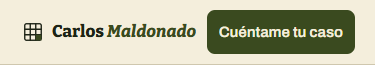
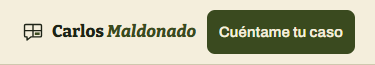
Ícono mensaje-celda y hero sin etiqueta

Changed region(s): [[0.0587, 0.3385, 0.1173, 0.6462]]

diff --git a/src/styles/global.css b/src/styles/global.css
@@ -57,7 +57,7 @@ h1 em, h2 em { font-style: italic; color: var(--oliva); }
 h1 { font-weight: 800; font-size: clamp(2.75rem, 2rem + 5vw, 5rem); line-height: 1.02; letter-spacing: -0.015em; max-width: 16ch; }
 h2 { font-size: clamp(2rem, 1.4rem + 2.6vw, 3.25rem); line-height: 1.08; letter-spacing: -0.01em; max-width: 22ch; overflow-wrap: anywhere; }
 h3 { font: 600 1.25rem/1.3 var(--f-titulo); }
-.rotulo, .etiqueta { font: 500 0.8125rem/1.3 var(--f-mono); text-transform: uppercase; letter-spacing: 0.04em; color: var(--tinta-2); }
+.rotulo { font: 500 0.8125rem/1.3 var(--f-mono); text-transform: uppercase; letter-spacing: 0.04em; color: var(--tinta-2); }
 .num { font: 500 0.8125rem/1.3 var(--f-mono); font-variant-numeric: tabular-nums; letter-spacing: 0.04em; color: var(--oliva); }
 .lead { font-size: clamp(1.1875rem, 1.1rem + 0.4vw, 1.375rem); line-height: 1.5; max-width: 52ch; }
 .nota { font: 400 0.9375rem/1.5 var(--f-titulo); color: var(--tinta-2); }
@@ -68,7 +68,7 @@ h3 { font: 600 1.25rem/1.3 var(--f-titulo); }
 .cabecera .contenedor { display: flex; flex-wrap: nowrap; justify-content: space-between; align-items: center; gap: var(--s1) var(--s2); min-height: 64px; padding-block: var(--s2); }
 .marca-enlace { display: inline-flex; align-items: center; gap: var(--s2); min-height: 44px; padding-inline: 2px; min-width: 0; color: var(--tinta); text-decoration: none; }
 .marca-enlace:hover { color: var(--tinta); }
-.marca-sim { width: 22px; height: 22px; flex: none; fill: none; stroke: var(--tinta); stroke-width: 1.5; stroke-linecap: round; stroke-linejoin: round; }
+.marca-sim { width: 22px; height: 22px; flex: none; }
 .marca { font: 800 1.0625rem/1.2 var(--f-display); white-space: nowrap; }
 @media (min-width: 768px) { .marca { font-size: 1.1875rem; } .cabecera .contenedor { gap: var(--s1) var(--s4); } }
 @media (max-width: 359px) { .marca-sim { display: none; } .marca { font-size: 1rem; } .btn-chico { font-size: 0.875rem; padding: 0 10px; } }
@@ -304,7 +304,6 @@ main > section + section { border-top: 1px solid var(--linea); }
 .btn-icono:hover { background: var(--oliva); color: var(--crema); }
 
 /* ---- direccion B: componentes nuevos ---- */
-.hero .etiqueta { margin-bottom: var(--s4); }
 .hero-cta .enlace-texto { font-weight: 600; }
 @media (min-width: 768px) { .hero-cta .enlace-texto { white-space: nowrap; } }
 .cabecera.cta-oculto .btn, .cabecera.cta-envio .btn { visibility: hidden; }

diff --git a/tests/servicios.spec.ts b/tests/servicios.spec.ts
@@ -86,6 +86,10 @@ test.describe('Estructura y texto de la pagina', () => {
       await expect(a).toHaveAttribute('href', '#inicio');
       await expect(a).toHaveAttribute('aria-label', 'Carlos Maldonado, inicio');
       await expect(a.locator('svg')).toHaveAttribute('aria-hidden', 'true');
+      await expect(a.locator('svg')).toHaveAttribute('viewBox', '0 0 24 24');
+      await expect(a.locator('svg rect')).toHaveCount(1); // la celda llena, separada del trazo del mensaje
+      await expect(page.locator('.hero .etiqueta')).toHaveCount(0);
+      await expect(page.locator('.hero')).not.toContainText('Santiago');
       await expect(a.locator('.marca')).toHaveText('Carlos Maldonado');
       await expect(a.locator('.marca em')).toHaveText('Maldonado');
       if ((await page.viewportSize())!.width >= 768) await expect(a.locator('.marca-desc')).toBeVisible();

diff --git a/DESIGN.md b/DESIGN.md
@@ -134,7 +134,7 @@ La prueba es una sola: el caso real, con su eje horario Antes / Ahora. El resto 
 - **Headline** (Bitter 700, clamp 2-3.25rem, 1.08): h2 de sección.
 - **Title** (Archivo 600, 1.25rem): h3 de pasos y bloques.
 - **Body** (400, 1.0625rem, 1.6) y **Lead** (clamp 1.1875-1.375rem).
-- **Label** (mono 500, 0.8125rem, mayúsculas, 0.04em): etiqueta del hero, números y estados de las etiquetas Antes / Ahora de los ejemplos y chips. Solo para datos; los títulos y botones van en mayúscula normal.
+- **Label** (mono 500, 0.8125rem, mayúsculas, 0.04em): números y estados de las etiquetas Antes / Ahora de los ejemplos y chips. Solo para datos; los títulos y botones van en mayúscula normal.
 
 ### Named Rules
 **The Tabular Rule.** Todo número que se lee como dato usa cifras tabulares.
@@ -146,7 +146,7 @@ La prueba es una sola: el caso real, con su eje horario Antes / Ahora. El resto 
 Una columna centrada, máx. 1200px más margen lateral (20/24/40px). Regla única de separación: **línea de 1px en color `linea` a todo el ancho entre una sección y la siguiente** (`main > section + section`). Fondo crema en todas las secciones; solo el hero conserva su tono (crema 2). Contacto y pie sin bandas propias. Regla general de contenido: cada sección lleva título y como máximo una línea; lo visual explica el resto.
 
 Orden de la página:
-1. **Hero** (crema 2, partido): etiqueta mono, h1, subtítulo, CTA y "Mira cómo funciona" (baja al caso) a la izquierda; ilustración de línea fina a la derecha con grilla de puntos tenue detrás. En 375 la ilustración va en vertical, debajo del CTA.
+1. **Hero** (crema 2, partido, sin etiqueta: "Automatización para pymes" ya está en la cabecera): h1, subtítulo, CTA y "Mira cómo funciona" (baja al caso) a la izquierda; ilustración de línea fina a la derecha con grilla de puntos tenue detrás. En 375 la ilustración va en vertical, debajo del CTA.
 2. **Caso real** (problema y caso fundidos): título "Hoy se anota a mano. Podría anotarse solo.", chip "Cliente real, datos anonimizados" y el eje horario Antes / Ahora dentro de una **tarjeta salvia contenida** (margen lateral, radio 8px). En móvil, dos listas apiladas con la hora a la izquierda. Espacio reservado para un dato real (`.caso-datos`).
    Dentro del mismo bloque, tras un filete, el rótulo "Ejemplo · Así se vería en tu negocio" y dos tarjetas `hoja` (Pedidos, Stock) con filas Antes / Ahora; un solo CTA al final. No hay sección aparte de servicios.
 3. **Cómo trabajo + Qué no hago**: cuatro pasos con número, título y una línea; tres límites.
@@ -172,7 +172,7 @@ Radio 8px en botones, campos y tarjetas; 4px en chips; 0 en tablas. Sin círculo
 - **Sin variante clara: el botón del caso es el primario.
 - **Texto:** oliva subrayado, 44px ("Mira cómo funciona", "Pausar/Reanudar").
 - **Foco:** contorno 3px oliva con 2px de separación en todo.
-- **Cabecera (sticky, línea inferior 1px):** un solo enlace a `#inicio` (`aria-label="Carlos Maldonado, inicio"`) con tres partes: símbolo de mini planilla (SVG en línea 22px, 3×3 celdas, trazo `tinta` 1.75 como la ilustración del hero, una celda abajo a la derecha rellena `oliva`, `aria-hidden`; misma familia que `favicon.svg`), nombre en Bitter 800 (1.0625rem en móvil, 1.1875rem desde 768px) con "Maldonado" en cursiva `oliva` (`translate="no"`) y, desde 768px, descriptor "Automatización para pymes" en Archivo 0.875rem `tinta-2` tras un filete vertical fino. Sin envolver: símbolo + nombre + botón caben en 375. El botón aparece solo cuando ni el CTA del hero ni el formulario están en pantalla, y se oculta tras enviar.
+- **Cabecera (sticky, línea inferior 1px):** un solo enlace a `#inicio` (`aria-label="Carlos Maldonado, inicio"`) con tres partes: ícono propio "mensaje-celda" (SVG en línea 22px, viewBox 24: un mensaje que se vuelve planilla; trazo `tinta` 1.5, línea horizontal y vertical dentro del globo y una celda llena `oliva` separada de las líneas, `aria-hidden`; mismo dibujo en `favicon.svg`, en `crema` sobre `oliva` con trazo 1.75 y sin la línea vertical interior, que se empastaba a 16px; bajo 360px el ícono se oculta para que quepan nombre y botón), nombre en Bitter 800 (1.0625rem en móvil, 1.1875rem desde 768px) con "Maldonado" en cursiva `oliva` (`translate="no"`) y, desde 768px, descriptor "Automatización para pymes" en Archivo 0.875rem `tinta-2` tras un filete vertical fino. Sin envolver: símbolo + nombre + botón caben en 375. El botón aparece solo cuando ni el CTA del hero ni el formulario están en pantalla, y se oculta tras enviar.
 - **Volver arriba:** botón flotante único (el pie ya no lo repite); aparece al subir, no mientras se baja leyendo.
 
 ### Íconos y cajas pastel

diff --git a/docs/revisiones/2026-10-20-icono-y-hero.md b/docs/revisiones/2026-10-20-icono-y-hero.md
@@ -1,0 +1,66 @@
+# Ícono propio y etiqueta del hero — 2026-10-20
+
+Decisiones de Carlos:
+1. Reemplazar la mini planilla 3×3 de la cabecera por el ícono **B1 "Mensaje-celda"** (un mensaje que se vuelve planilla). Opciones evaluadas en `design/fase5/icono-opciones.png`.
+2. Quitar la etiqueta del hero "Automatización para pymes · Santiago": ya está en la cabecera y se leía dos veces seguidas.
+
+No tocar nada más.
+
+## Instrucciones
+
+### 1. Ícono en la cabecera
+Reemplaza el SVG actual por este, tal cual (viewBox 24, mismo tamaño de 22px, `aria-hidden="true"`). El trazo usa `tinta` y la celda llena `oliva`; pásalos a las variables CSS del proyecto si el SVG está en línea:
+
+```svg
+<svg viewBox="0 0 24 24" width="22" height="22" aria-hidden="true">
+  <path d="M4 3.75h16A1.25 1.25 0 0 1 21.25 5v11A1.25 1.25 0 0 1 20 17.25h-10l-4.5 3.5v-3.5H4A1.25 1.25 0 0 1 2.75 16V5A1.25 1.25 0 0 1 4 3.75z" fill="none" stroke="#1D2316" stroke-width="1.5" stroke-linejoin="round"/>
+  <path d="M2.75 10.5h18.5M12 3.75v13.5" stroke="#1D2316" stroke-width="1.5"/>
+  <rect x="14" y="12.5" width="5.25" height="2.75" rx=".6" fill="#3A4A1F"/>
+</svg>
+```
+
+La celda llena va separada del trazo a propósito (es lo que fallaba en la grilla 3×3): no la agrandes hasta tocar las líneas.
+
+### 2. Favicon
+Reemplaza `public/favicon.svg` por el mismo ícono sobre fondo `oliva`, en `crema`:
+
+```svg
+<svg xmlns="http://www.w3.org/2000/svg" viewBox="0 0 32 32">
+  <rect width="32" height="32" rx="6" fill="#3A4A1F"/>
+  <g transform="translate(4 4)">
+    <path d="M4 3.75h16A1.25 1.25 0 0 1 21.25 5v11A1.25 1.25 0 0 1 20 17.25h-10l-4.5 3.5v-3.5H4A1.25 1.25 0 0 1 2.75 16V5A1.25 1.25 0 0 1 4 3.75z" fill="none" stroke="#F4EEDC" stroke-width="1.75" stroke-linejoin="round"/>
+    <path d="M2.75 10.5h18.5M12 3.75v13.5" stroke="#F4EEDC" stroke-width="1.75"/>
+    <rect x="14" y="12.5" width="5.25" height="2.75" rx=".6" fill="#F4EEDC"/>
+  </g>
+</svg>
+```
+
+Revisa cómo se ve a 16px en la pestaña. Si las líneas internas se empastan, quita solo la línea vertical (`M12 3.75v13.5`) **en el favicon**, no en la cabecera.
+
+### 3. Hero sin etiqueta
+- Elimina `<p class="etiqueta">Automatización para pymes · Santiago</p>` del hero.
+- Ajusta el espacio superior del hero para que el h1 no quede pegado a la cabecera ni con un hueco donde estaba la etiqueta.
+- "Santiago" sigue en Quién soy y en el pie; no hace falta reubicarlo.
+
+### 4. Registro
+Actualiza DESIGN.md (cabecera, favicon, hero) y `copy.md` (sin etiqueta del hero). Ajusta tests que busquen la etiqueta o el SVG anterior.
+
+## Criterios de aceptación
+- `npm run build` ok y tests no visuales pasan.
+- Capturas: cabecera a 375, 768 y 1440 (arriba y con scroll), hero a 375 y 1440, y el favicon renderizado a 16 y 32px.
+- Pasar `revisor-landing` y esperar el OK de Carlos antes de `--update-snapshots`.
+
+## Resultado
+**Commit:** "Ícono mensaje-celda y hero sin etiqueta" (rama `conversion-v2`).
+
+**Hecho**
+1. Cabecera: SVG B1 "mensaje-celda" tal cual la revisión (viewBox 24, 22px, `aria-hidden`), con trazo `var(--tinta)` y celda `var(--oliva)`; la celda queda separada de las líneas. Se quitó el `fill/stroke` de `.marca-sim` (mandan los atributos del SVG).
+2. Favicon: `public/favicon.svg` con el ícono en `crema` sobre `oliva`. **Decisión:** a 16px las líneas interiores se empastaban (el interior quedaba como un bloque borroso), así que se quitó solo la línea vertical `M12 3.75v13.5` **en el favicon**, como permitía la revisión; la cabecera la conserva. Comparación en `design/fase4/capturas/favicon-16-32.png` (16 y 32px reales y ampliados x10).
+3. Hero: eliminada la etiqueta "Automatización para pymes · Santiago" y su CSS (`.etiqueta`). El h1 queda a 32px de la cabecera en 375 y 768, 64px en 1024 y 112px en 1440 (el texto se centra junto a la ilustración); sin hueco. "Santiago" sigue en Quién soy y en el pie.
+4. `DESIGN.md` y `copy.md` actualizados; test de cabecera ampliado (ícono, sin etiqueta ni "Santiago" en el hero). `scripts/capturas.mjs` ahora también genera `hero-*` y `favicon-16-32.png`.
+
+**Verificado:** build ok; 95 tests no visuales pasan. `revisor-landing` sin bloqueantes.
+
+**Pendiente / para decidir**
+- OK de Carlos a las capturas; luego `--update-snapshots` solo para `visual.spec.ts` (el snapshot `hero.png` cambia).
+- A 1024px la nota "Primera conversación sin costo…" del hero queda en una columna angosta y roza la ilustración. Los estilos del hero no se tocaron aquí; se decide aparte.

diff --git a/copy.md b/copy.md
@@ -26,7 +26,7 @@ Carlos Maldonado · [Cuéntame tu caso] (visible solo tras salir del hero)
 
 ## 1. Hero (partido: texto + CTA a la izquierda, demo a la derecha)
 
-Etiqueta: `AUTOMATIZACIÓN PARA PYMES · SANTIAGO`
+Sin etiqueta sobre el h1 (la cabecera ya dice "Automatización para pymes"; "Santiago" queda en Quién soy y en el pie).
 
 # Tu planilla se llena *sola*.
 
